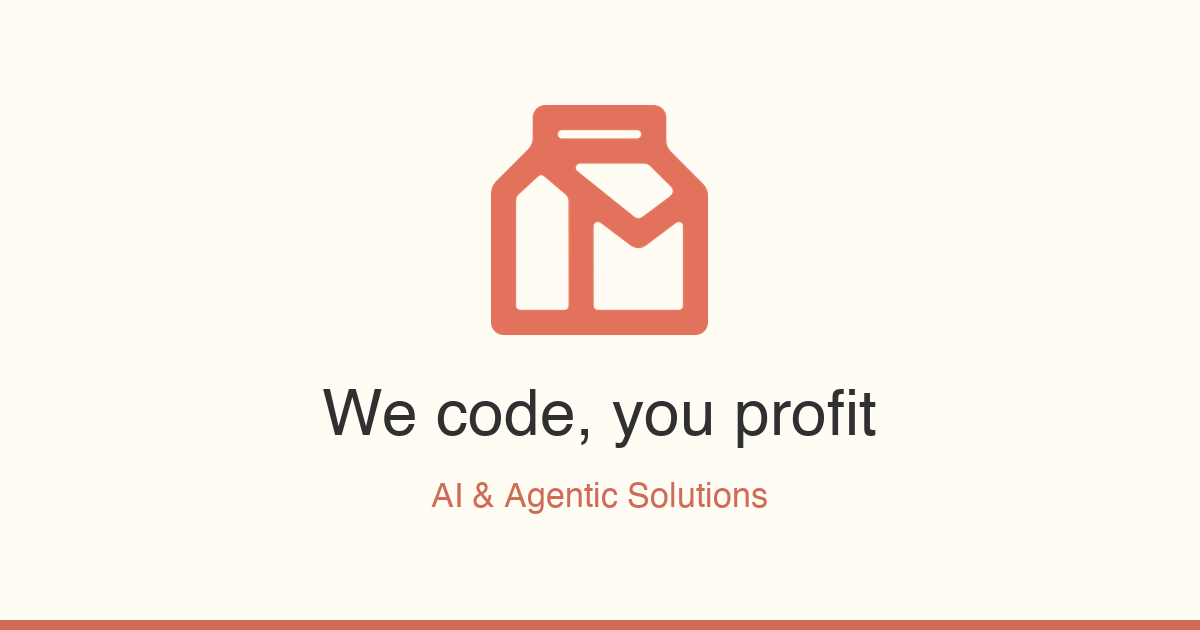
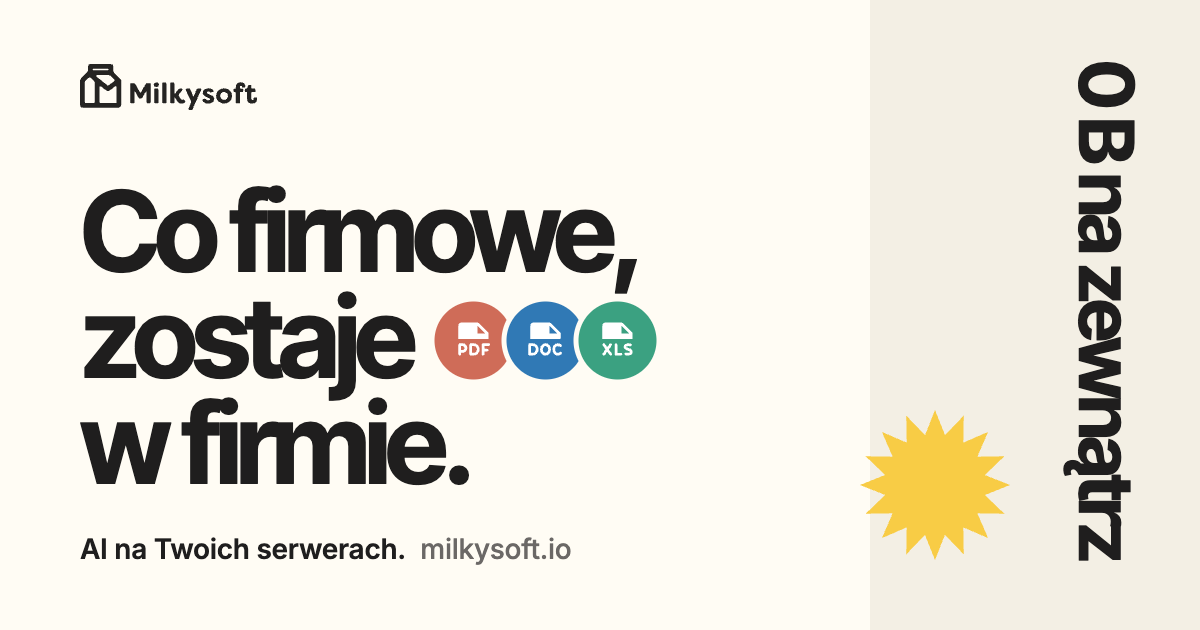
feat(seo): replace the social card with the new on-premise message
The old card still said "We code, you profit / AI & Agentic Solutions".
The new one repeats the hero: the headline with the file chips, the
"0 B na zewnątrz" panel and the yellow starburst, in the brand fonts.

diff --git a/index.html b/index.html
@@ -42,7 +42,7 @@
     <meta property="og:image" content="https://milkysoft.io/og-image.png" />
     <meta property="og:image:width" content="1200" />
     <meta property="og:image:height" content="630" />
-    <meta property="og:image:alt" content="Logo Milkysoft" />
+    <meta property="og:image:alt" content="Milkysoft: Co firmowe, zostaje w firmie. AI na Twoich serwerach." />
     <meta property="og:locale" content="pl_PL" />
     <meta property="og:locale:alternate" content="en_US" />
     <meta name="twitter:card" content="summary_large_image" />
